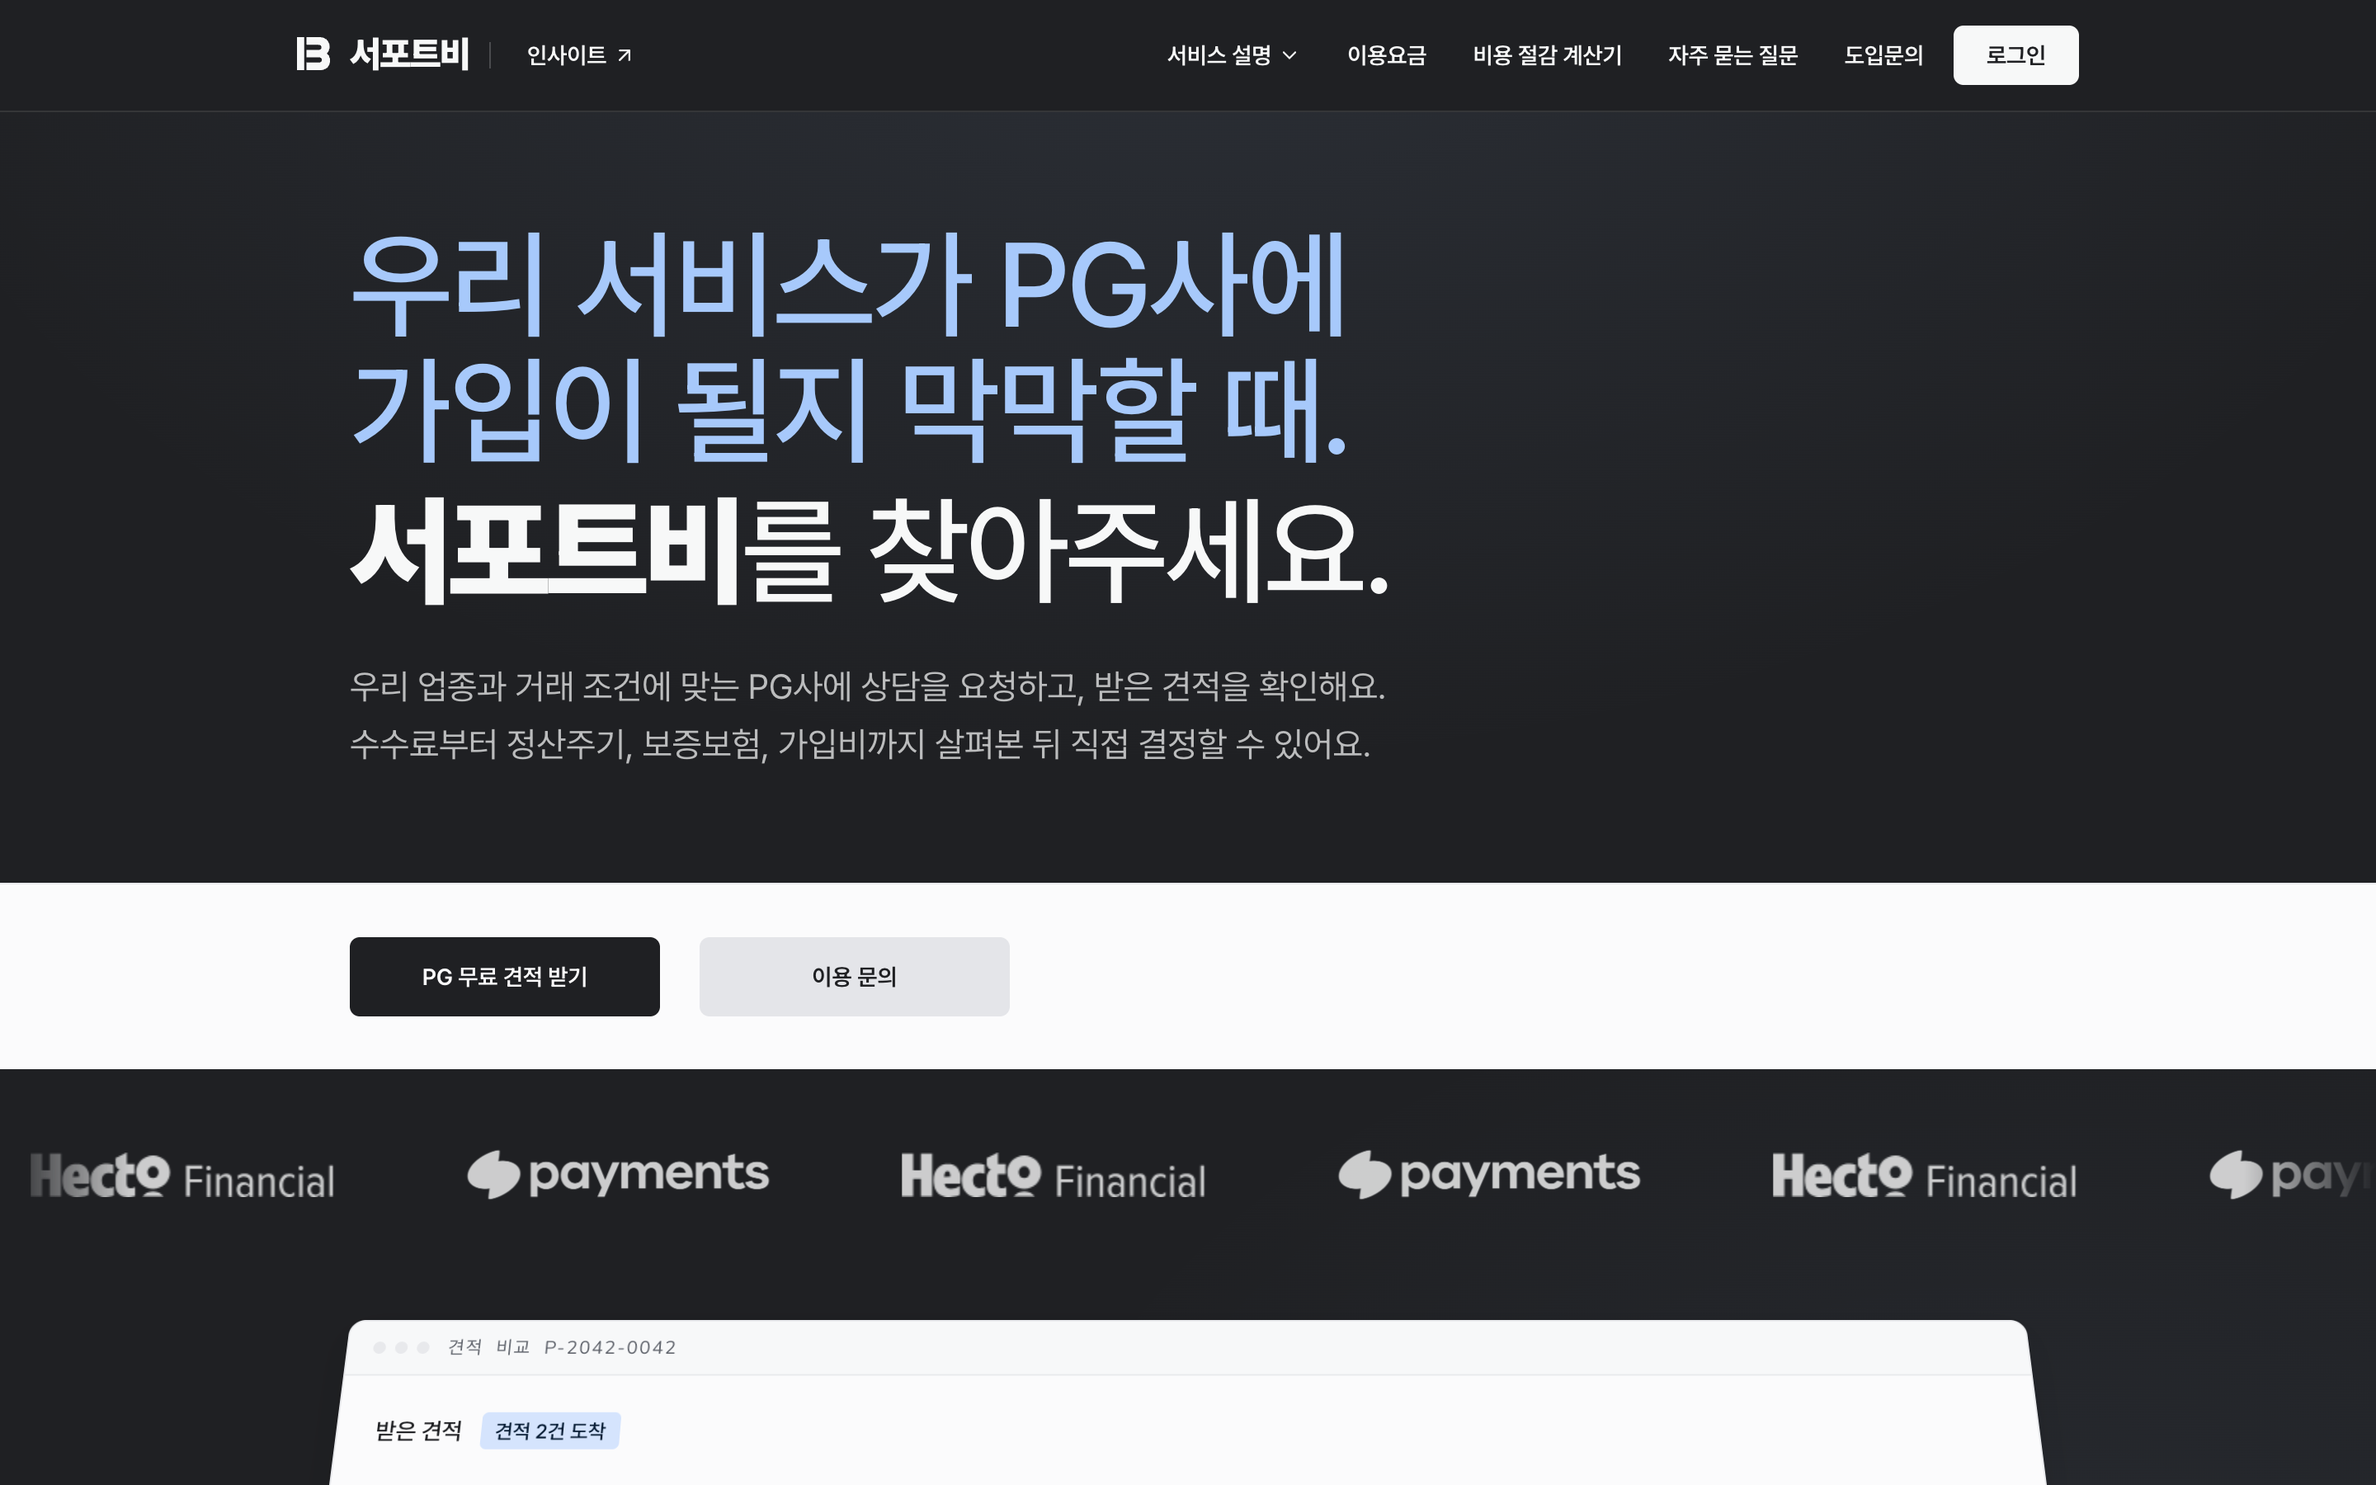
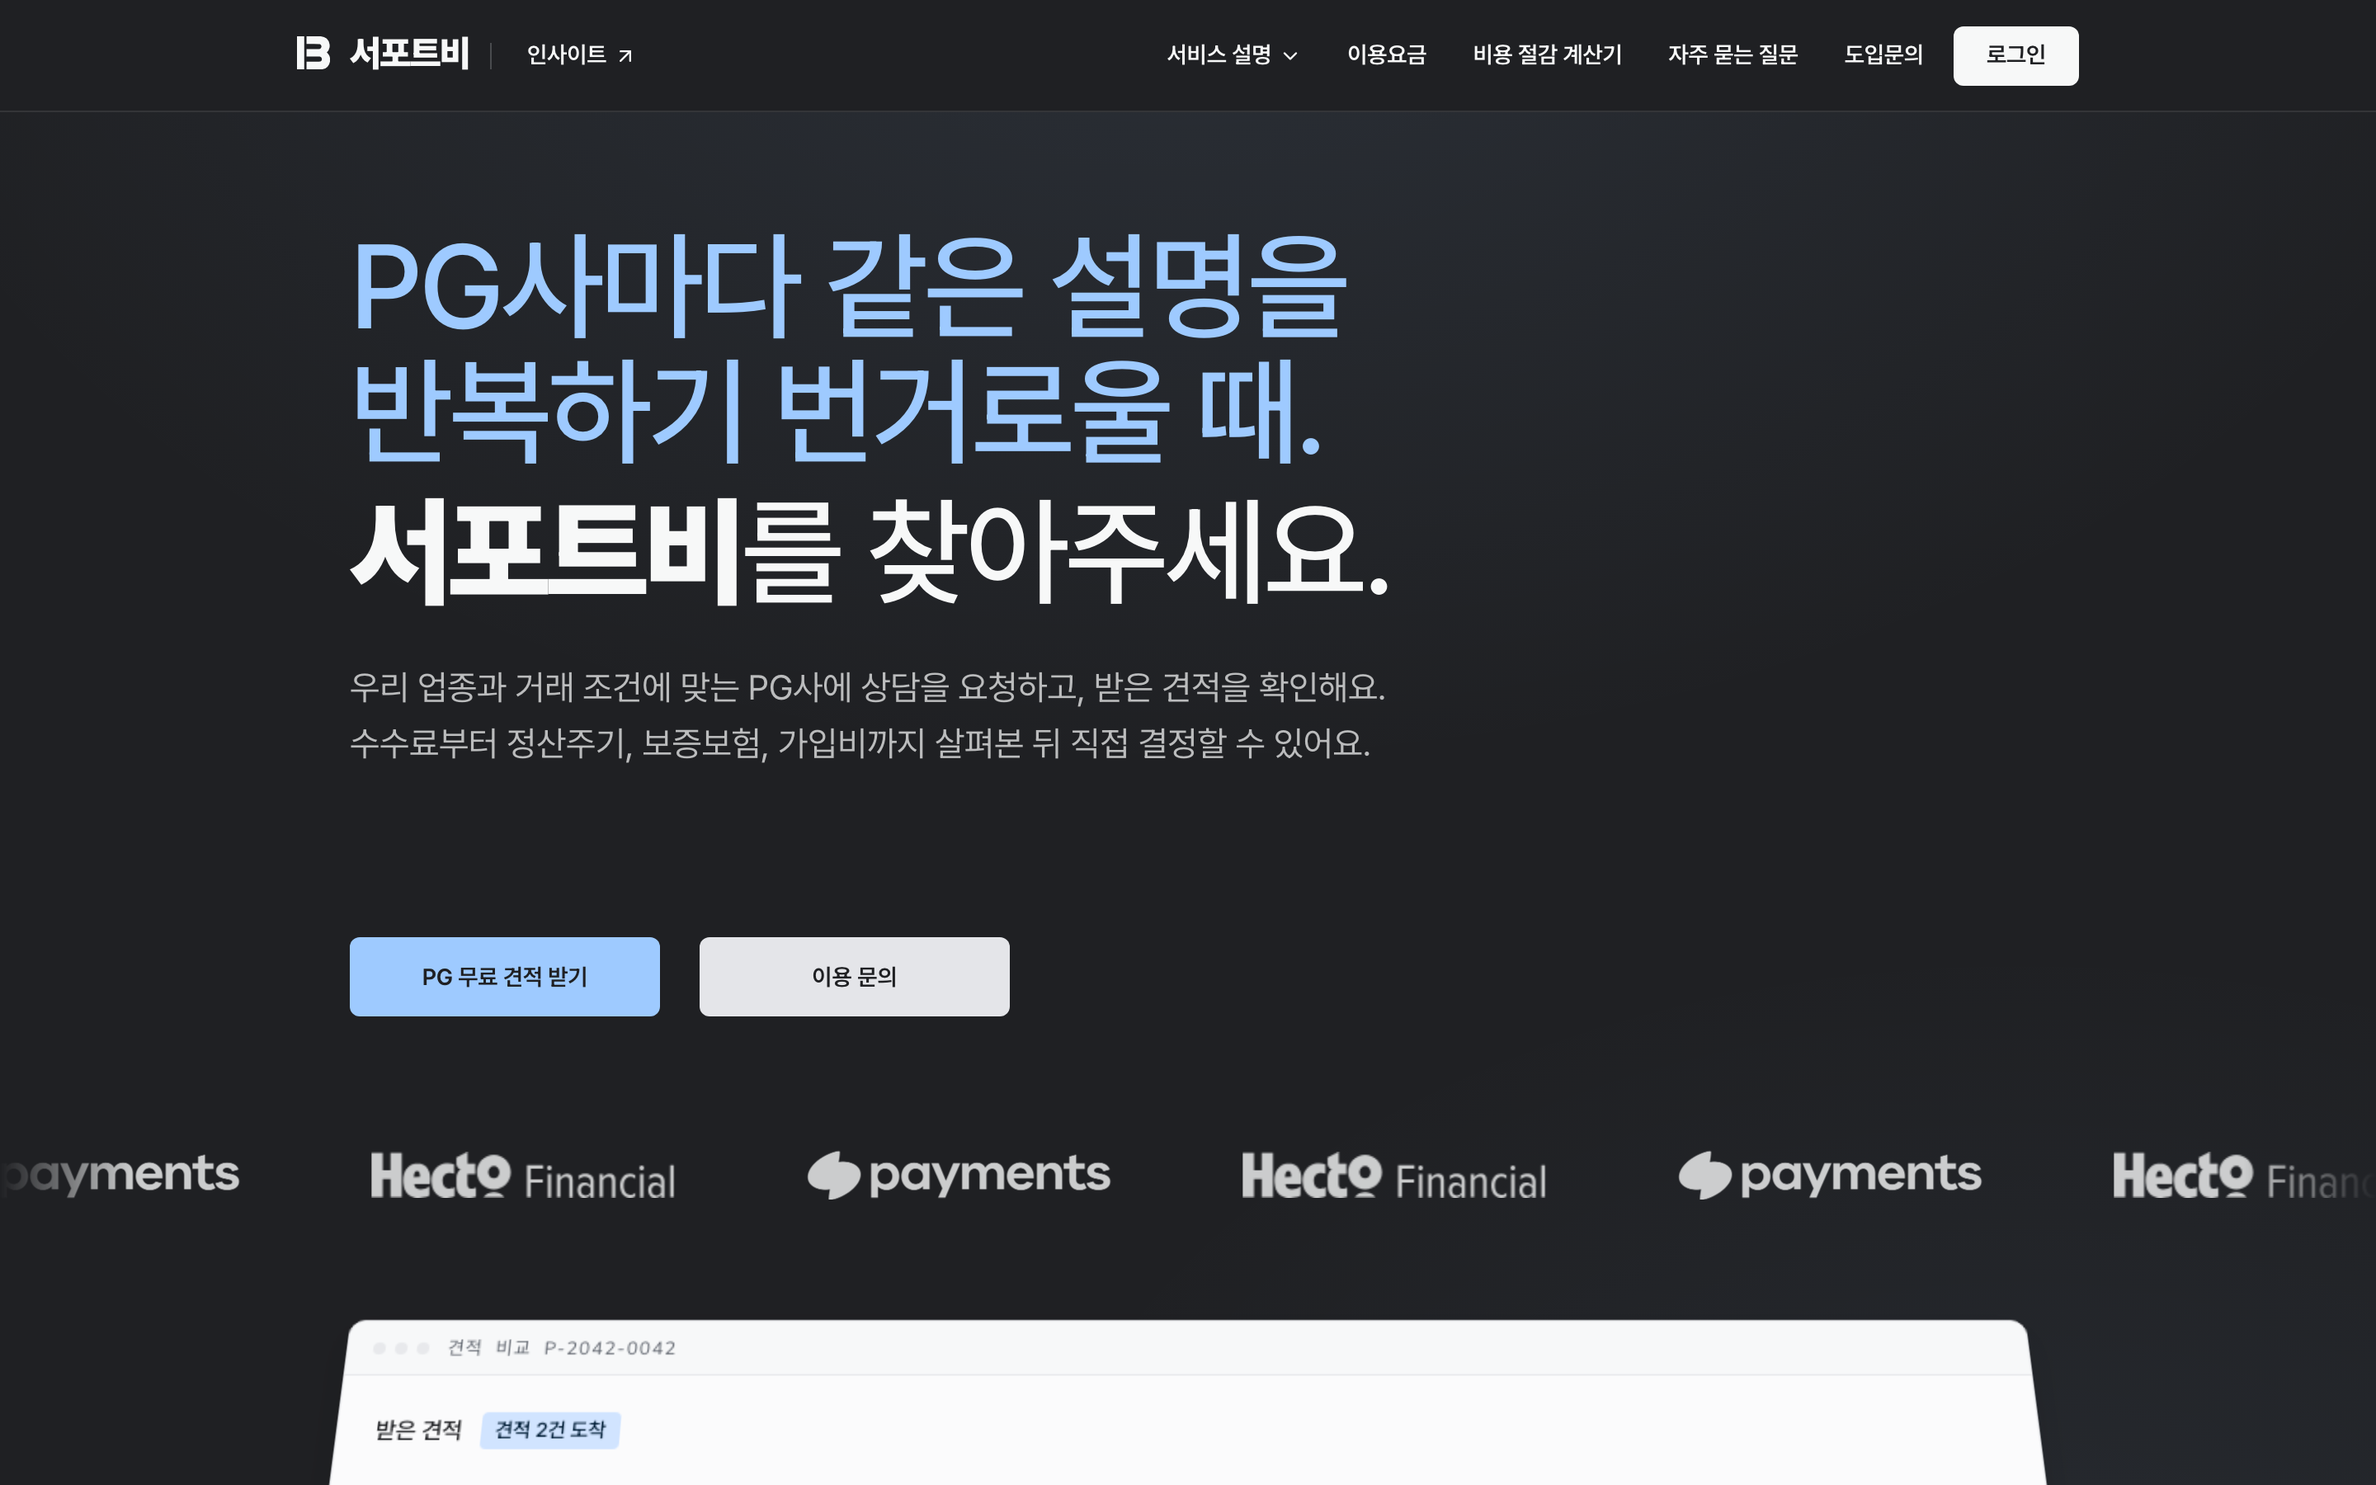
fix(landing): keep hero background behind actions

diff --git a/components/landing/hero/HeroPinnedScene.module.css b/components/landing/hero/HeroPinnedScene.module.css
@@ -13,8 +13,6 @@
   z-index: 20;
   flex-shrink: 0;
   width: 100%;
-  border-top: 1px solid var(--md-sys-color-outline-variant);
-  background: var(--md-sys-color-surface);
 }
 .actionBarInner {
   width: 100%;
@@ -31,8 +29,8 @@
   height: 48px;
   padding-inline: 24px;
   border-radius: var(--md-sys-shape-small);
-  background: var(--md-sys-color-on-surface);
-  color: var(--md-sys-color-surface);
+  background: var(--md-sys-color-inverse-primary);
+  color: var(--md-sys-color-inverse-surface);
   font-size: var(--md-typescale-label-large-size);
   font-weight: 600;
   line-height: inherit;
@@ -41,7 +39,7 @@
 }
 .primaryAction:hover { opacity: 0.85; }
 .primaryAction:focus-visible {
-  outline: 2px solid var(--md-sys-color-primary);
+  outline: 2px solid var(--md-sys-color-inverse-primary);
   outline-offset: 4px;
 }
 @media (max-height: 700px) {

diff --git a/SCREEN_DESIGN.md b/SCREEN_DESIGN.md
@@ -134,9 +134,9 @@ Admin console (별도 저장소 `admin-supporter-b`, admin.support-b.com, app/(p
 
 별도 관리자 `/agreement-rates`는 PG별 표준 수수료 기준 편집 화면이다. 앱의 `GET /api/signing/agreements/:id/document`는 권한 검증된 실제 PDF 미리보기·보낸 문서 조회 전용이다.
 
-**공개 랜딩 히어로 (2026-10-09, 2026-10-19 문구 길이·데스크톱 폭 수정)**: `HeroKineticHeadline`은 고정 브랜드 문장과 독립된 롤링 강조 줄을 하나의 h1으로 제공한다. 구매사는 롤링 문구 → 고정 문장 `서포트비를 찾아주세요.` 순서로 표시하고 읽는다. 롤링 문구는 `PG사마다 같은 설명을 반복하기 번거로울 때.` → `받은 견적이 회사에 유리한지 판단이 어려울 때.` → `우리 서비스가 PG사에 가입이 될지 막막할 때.` → `결제 오픈 전까지 무엇부터 준비할지 고민될 때.` 순서로 순환한다. 네 문구는 길이(공백 포함 26자)와 줄바꿈 조각(두 조각으로 균등 분할)을 맞춰, 같은 화면 폭에서 유독 짧은 문구만 줄바꿈 위치가 어긋나 보이는 것을 줄였다. 기존 제목 크기와 브랜드 글꼴 강조를 유지하며 화면 폭에 따라 의미 단위 사이에서 줄바꿈한다. `번거로울 때.`·`어려울 때.`·`막막할 때.`·`고민될 때.`의 끝맺음은 같은 줄에 두어 `때.`만 떨어지지 않게 한다. PG는 기존 문구와 고정 브랜드 문장 → 롤링 강조 줄 순서를 유지한다. 강조 영역은 전체 문구의 높이를 예약하여 아래 설명과 CTA가 움직이지 않는다. 롤링은 띄어쓰기와 의미 단위 줄바꿈을 유지하면서 첫 글자부터 마지막 글자까지 30ms 시차로 진행한다. 각 글자는 620ms 동안 부드럽게 가속·감속하며, 마지막 글자가 정착한 뒤 다음 문구의 읽기 대기 시간을 시작한다. **데스크톱 폭(롤링 줄 전용)**: 1920px 미만에서는 롤링 줄도 다른 줄과 같은 1080px 칼럼 폭(최대 1016px)에 묶여 네 문구 모두 항상 두 줄로 보인다. 1920px 이상에서는 롤링 줄만 그 칼럼을 넘어 뷰포트 오른쪽 32px 여백까지 늘어나(`calc(100vw - max(2rem, (100vw - 1080px)/2 + 2rem) - 2rem)`) 네 문구 모두 항상 한 줄로 보인다. 중간값에서 서서히 넓히는 램프가 아니라 1920px 단일 지점에서 전환하는 계단형이다 — 네 문구의 폭이 서로 달라(이 글꼴 크기에서 두 조각 합산 약 1232~1276px) 매끈한 램프는 더 좁은 문구가 먼저 한 줄로 붙고 가장 넓은 문구는 여전히 두 줄로 남는 혼재 구간(실측 약 1512~1600px, 흔한 노트북 해상도와 겹친다)을 만들기 때문이다. 문구를 바꾸면 이 폭·breakpoint 가정도 다시 확인한다. 구매사 보조 설명은 현재의 맞춤 PG 상담과 견적 확인·최종 선택을 안내한다. 구매사 첫 화면의 제목·설명은 가로 왼쪽 정렬을 유지하면서 헤더 하단과 CTA 띠 상단 사이의 세로 중앙에 배치한다. 헤더 높이를 제외한 위아래 여백을 균등하게 나누고 각각 최소 32px(화면 높이 700px 이하는 24px)을 확보한다. 짧은 화면에서는 소개 묶음의 자연 높이를 유지해 일반 스크롤로 이어진다. 카피 근거와 검증 가설은 `docs/HERO_COPY_RESEARCH_2026-10-09.md`를 참조한다. 구매사 히어로의 도입 문의 영역은 `PG 수수료 협의나 가입 심사가 막막한가요?`와 `채팅으로 문의해요` 버튼을 함께 표시한다. 랜딩의 `ConsultButton`은 `href`가 없을 때 `window.ChannelIO`가 있으면 채널톡 메신저를 열고, 없으면 `siteConfig.operator.email`로 이메일 작성을 연다. 이메일 전송은 사용자가 이메일 앱에서 완료하며, `href`가 지정된 버튼은 해당 링크로 이동한다.
+**공개 랜딩 히어로 (2026-10-09, 2026-10-19 문구 길이·데스크톱 폭 수정)**: `HeroKineticHeadline`은 고정 브랜드 문장과 독립된 롤링 강조 줄을 하나의 h1으로 제공한다. 구매사는 롤링 문구 → 고정 문장 `서포트비를 찾아주세요.` 순서로 표시하고 읽는다. 롤링 문구는 `PG사마다 같은 설명을 반복하기 번거로울 때.` → `받은 견적이 회사에 유리한지 판단이 어려울 때.` → `우리 서비스가 PG사에 가입이 될지 막막할 때.` → `결제 오픈 전까지 무엇부터 준비할지 고민될 때.` 순서로 순환한다. 네 문구는 길이(공백 포함 26자)와 줄바꿈 조각(두 조각으로 균등 분할)을 맞춰, 같은 화면 폭에서 유독 짧은 문구만 줄바꿈 위치가 어긋나 보이는 것을 줄였다. 기존 제목 크기와 브랜드 글꼴 강조를 유지하며 화면 폭에 따라 의미 단위 사이에서 줄바꿈한다. `번거로울 때.`·`어려울 때.`·`막막할 때.`·`고민될 때.`의 끝맺음은 같은 줄에 두어 `때.`만 떨어지지 않게 한다. PG는 기존 문구와 고정 브랜드 문장 → 롤링 강조 줄 순서를 유지한다. 강조 영역은 전체 문구의 높이를 예약하여 아래 설명과 CTA가 움직이지 않는다. 롤링은 띄어쓰기와 의미 단위 줄바꿈을 유지하면서 첫 글자부터 마지막 글자까지 30ms 시차로 진행한다. 각 글자는 620ms 동안 부드럽게 가속·감속하며, 마지막 글자가 정착한 뒤 다음 문구의 읽기 대기 시간을 시작한다. **데스크톱 폭(롤링 줄 전용)**: 1920px 미만에서는 롤링 줄도 다른 줄과 같은 1080px 칼럼 폭(최대 1016px)에 묶여 네 문구 모두 항상 두 줄로 보인다. 1920px 이상에서는 롤링 줄만 그 칼럼을 넘어 뷰포트 오른쪽 32px 여백까지 늘어나(`calc(100vw - max(2rem, (100vw - 1080px)/2 + 2rem) - 2rem)`) 네 문구 모두 항상 한 줄로 보인다. 중간값에서 서서히 넓히는 램프가 아니라 1920px 단일 지점에서 전환하는 계단형이다 — 네 문구의 폭이 서로 달라(이 글꼴 크기에서 두 조각 합산 약 1232~1276px) 매끈한 램프는 더 좁은 문구가 먼저 한 줄로 붙고 가장 넓은 문구는 여전히 두 줄로 남는 혼재 구간(실측 약 1512~1600px, 흔한 노트북 해상도와 겹친다)을 만들기 때문이다. 문구를 바꾸면 이 폭·breakpoint 가정도 다시 확인한다. 구매사 보조 설명은 현재의 맞춤 PG 상담과 견적 확인·최종 선택을 안내한다. 구매사 첫 화면의 제목·설명은 가로 왼쪽 정렬을 유지하면서 헤더 하단과 CTA 영역 상단 사이의 세로 중앙에 배치한다. 헤더 높이를 제외한 위아래 여백을 균등하게 나누고 각각 최소 32px(화면 높이 700px 이하는 24px)을 확보한다. 짧은 화면에서는 소개 묶음의 자연 높이를 유지해 일반 스크롤로 이어진다. 카피 근거와 검증 가설은 `docs/HERO_COPY_RESEARCH_2026-10-09.md`를 참조한다. 구매사 히어로의 도입 문의 영역은 `PG 수수료 협의나 가입 심사가 막막한가요?`와 `채팅으로 문의해요` 버튼을 함께 표시한다. 랜딩의 `ConsultButton`은 `href`가 없을 때 `window.ChannelIO`가 있으면 채널톡 메신저를 열고, 없으면 `siteConfig.operator.email`로 이메일 작성을 연다. 이메일 전송은 사용자가 이메일 앱에서 완료하며, `href`가 지정된 버튼은 해당 링크로 이동한다.
 
-**구매사 랜딩 상단 CTA (2026-11-17)**: 헤더는 섹션 메뉴와 로그인(인증 시 앱 이동)을 유지하고 `맞춤 견적 받기`를 제거한다. 제목·설명 아래에 배경과 상단 구분선으로 나눈 전체 폭의 CTA 띠를 두고, 콘텐츠 왼쪽 기준선에 `PG 무료 견적 받기`와 `이용 문의`를 같은 높이로 나란히 배치한다. 주요 버튼은 진한 중립색, 문의 버튼은 회색 표면을 사용한다. 모바일에서도 두 버튼을 같은 너비로 배치한다. 견적 링크는 기존 인증 상태에 따라 비회원 `/quote-start`, 회원 `/rfp-create`로 이동한다. 문의는 기존 `ConsultButton`의 채널톡·이메일 대체 동작을 사용한다. 히어로의 `데모 체험하기` 버튼을 제거하며, 기존 제목·설명·스크롤 연출·제휴 PG사 띠·본문 데모와 PG 랜딩은 유지한다. 첨부 와이어프레임의 X 표시는 배너 영역으로 해석하며 실제 X 표시나 새 배너 이미지는 추가하지 않는다.
+**구매사 랜딩 상단 CTA (2026-11-17)**: 헤더는 섹션 메뉴와 로그인(인증 시 앱 이동)을 유지하고 `맞춤 견적 받기`를 제거한다. 제목·설명 아래의 기존 히어로 배경 위에 별도 배경이나 구분선 없이 버튼만 두고, 콘텐츠 왼쪽 기준선에 `PG 무료 견적 받기`와 `이용 문의`를 같은 높이로 나란히 배치한다. 주요 버튼은 기존 히어로의 브랜드 블루, 문의 버튼은 회색 표면을 사용한다. 모바일에서도 두 버튼을 같은 너비로 배치한다. 견적 링크는 기존 인증 상태에 따라 비회원 `/quote-start`, 회원 `/rfp-create`로 이동한다. 문의는 기존 `ConsultButton`의 채널톡·이메일 대체 동작을 사용한다. 히어로의 `데모 체험하기` 버튼을 제거하며, 기존 제목·설명·스크롤 연출·제휴 PG사 띠·본문 데모와 PG 랜딩은 유지한다. 첨부 와이어프레임의 X 표시는 배너 영역으로 해석하며 실제 X 표시나 새 배너 이미지는 추가하지 않는다.
 
 **히어로 H1 초기 표시와 중복 제거 (2026-11-09)**: 구매사·PG의 기존 문구와 읽기 순서는 유지한다. 첫 HTML에는 첫 순환 문구와 고정 브랜드 문장을 단어 단위의 텍스트로 한 번씩 제공하며, JS를 실행하지 않아도 제목이 보인다. 제목 전체를 아래로 숨겼다가 올리는 진입 효과는 제거하고, JS 준비 후 기존 글자별 순환만 시작한다. 문구별 크기 예약 요소는 H1 밖의 형제 요소에 두고 같은 grid 행을 공유해 제목 높이와 설명·CTA 위치를 유지한다. 글자별 복사본과 스크린리더용 문장은 실제 전환 중에만 만들고, 정착하면 다시 한 벌의 읽을 수 있는 텍스트로 돌아온다. 첫 문구·정착 문구에 불필요한 `aria-live`는 추가하지 않는다.
 

diff --git a/docs/screenshots/landing-hero-actions-2026-11-17/README.md b/docs/screenshots/landing-hero-actions-2026-11-17/README.md
@@ -7,6 +7,6 @@
 - 비로그인 첫 화면이며 운영 계정이나 고객 데이터를 사용하지 않았다.
 - 기본 라이트 테마의 기존 다크 히어로 씬이다. 제목의 순환 문구는 캡처 시점에 따라 다르다.
 - 스크린샷에서는 Next.js 개발 도구 표시만 숨겼다. 제품 콘텐츠와 스타일은 수정하지 않았다.
-- 배너의 제목·설명·스크롤 연출은 유지하고, 견적·문의 버튼을 별도 영역에 배치했다.
+- 배너의 제목·설명·스크롤 연출은 유지하고, 별도 배경이나 구분선 없이 기존 히어로 배경 위에 견적·문의 버튼만 배치했다.
 
 이 이미지는 화면 확인 자료이며 실제 견적 제출이나 GA4 수신 증빙은 아니다.
